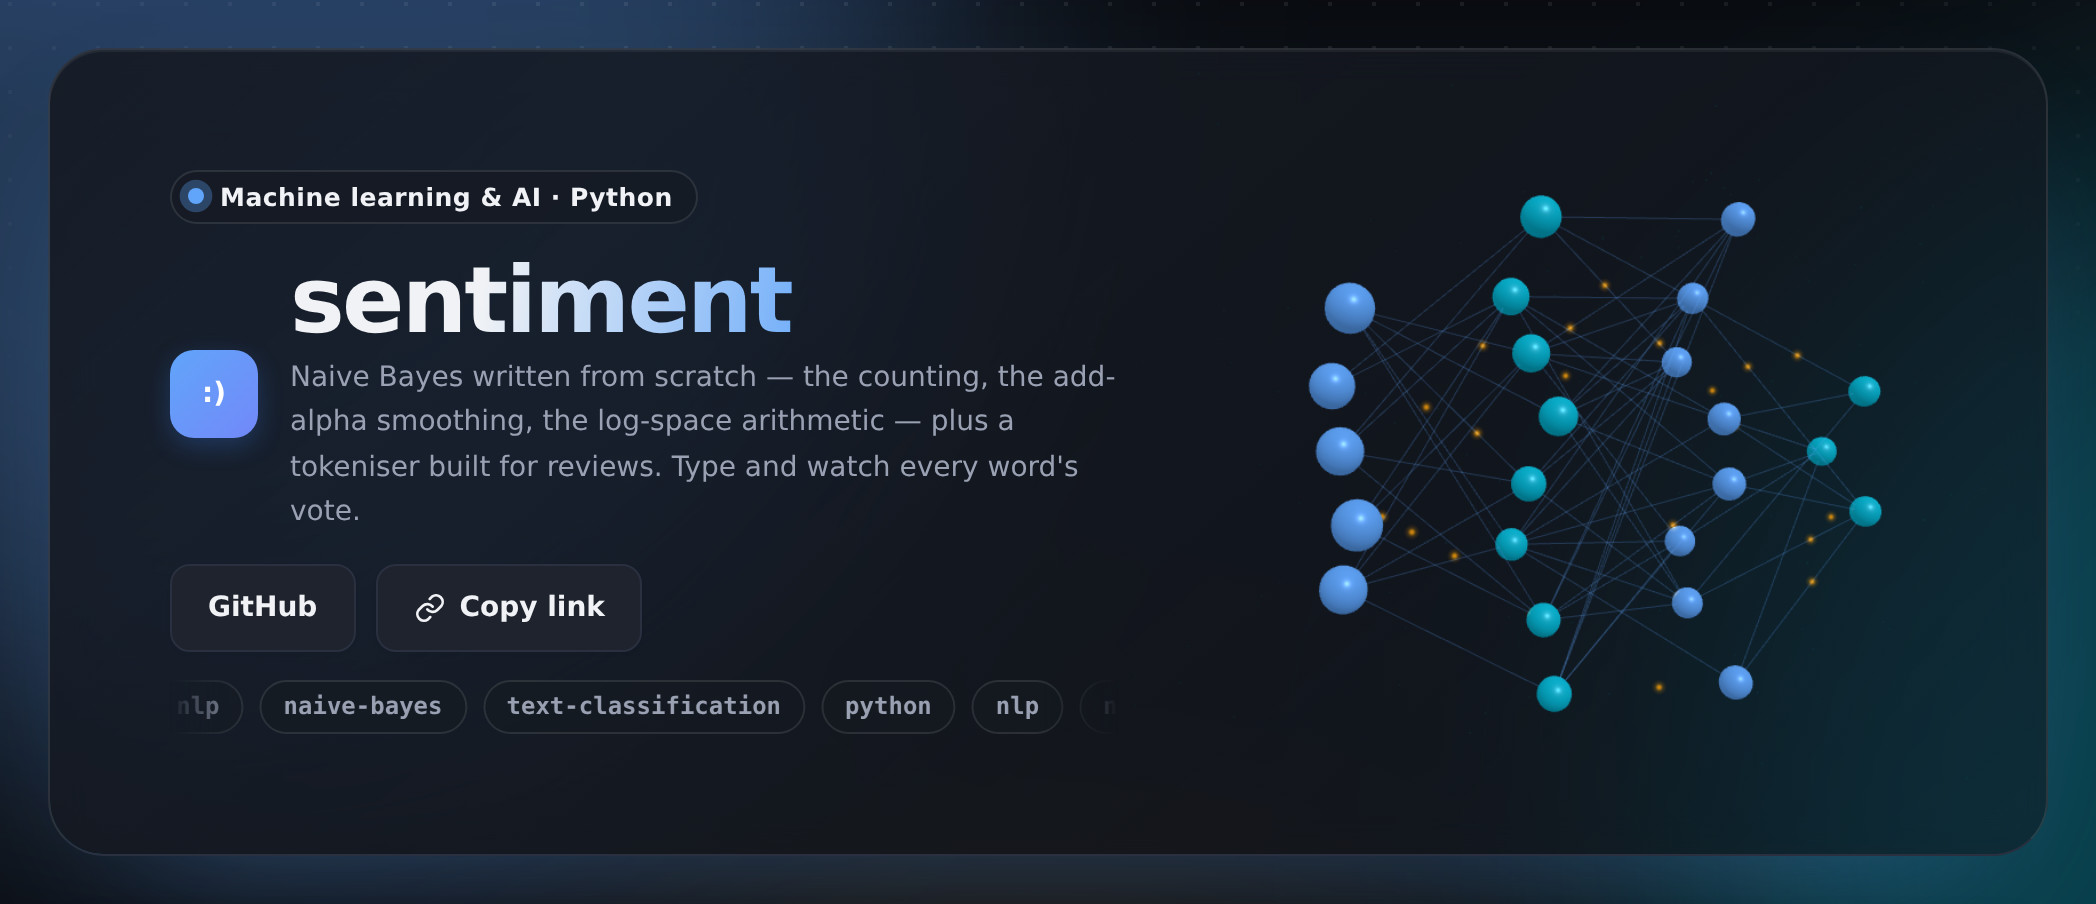
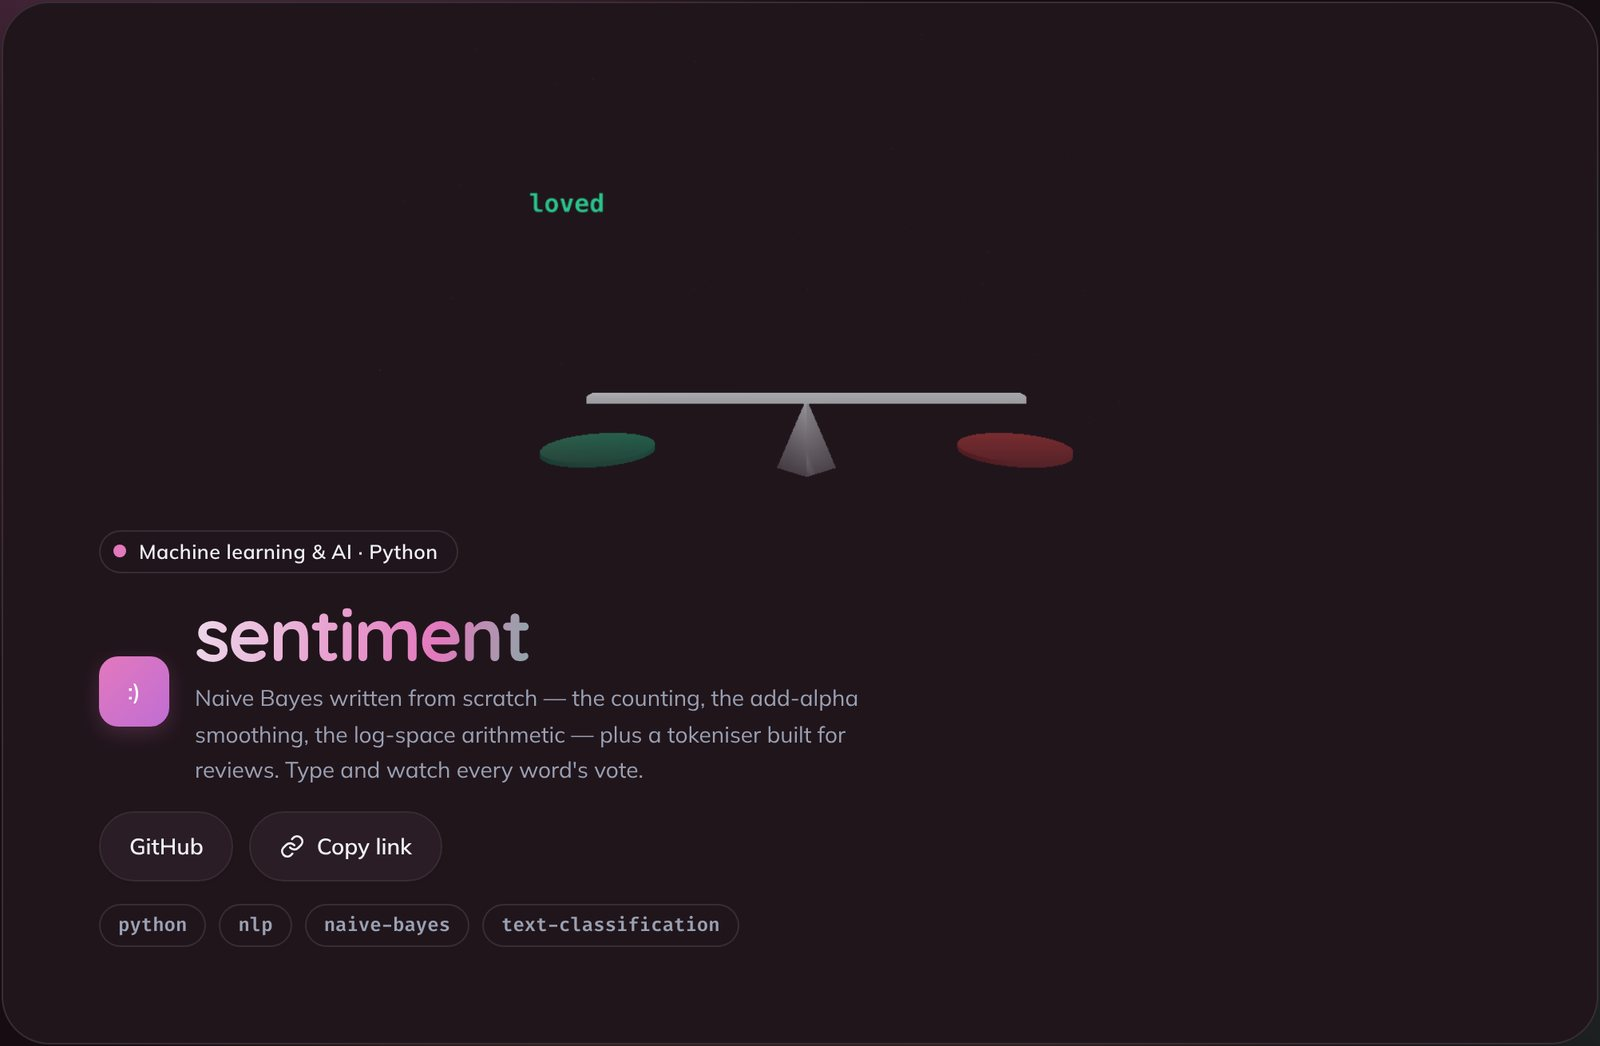
Cleaner page: solid cards and bars with nothing showing through, each tag shown once, no floating 3D window; search tags and fresh previews

diff --git a/docs/fx.css b/docs/fx.css
@@ -18,16 +18,11 @@ body { isolation: isolate; }
 .fx-cursor { position: fixed; left: 0; top: 0; z-index: -1; width: 560px; height: 560px; margin: -280px 0 0 -280px; border-radius: 50%; pointer-events: none; opacity: 0; transition: opacity .4s; background: radial-gradient(circle, color-mix(in srgb, var(--accent) 14%, transparent), transparent 62%); transform: translate3d(var(--x, -999px), var(--y, -999px), 0); }
 .fx-cursor.on { opacity: 1; }
 
-/* the hero: a glass panel with the 3D scene on the right (behind the text on phones) */
+/* the hero: one solid panel with the 3D scene on the right (behind the text on phones) */
 .fx-hero { --pad: clamp(24px, 5vw, 60px); position: relative; isolation: isolate; overflow: hidden; display: flex; flex-direction: column; justify-content: center; align-items: flex-start; gap: 14px;
   min-height: clamp(380px, 56vh, 580px); margin-top: 14px; padding: var(--pad); border: 1px solid var(--fx-line); border-radius: 28px;
-  background: linear-gradient(140deg, color-mix(in srgb, var(--surface, #fff) 92%, transparent), color-mix(in srgb, var(--surface, #fff) 55%, transparent));
-  -webkit-backdrop-filter: blur(10px) saturate(140%); backdrop-filter: blur(10px) saturate(140%); box-shadow: 0 30px 80px -40px color-mix(in srgb, var(--accent) 45%, transparent), 0 1px 0 rgb(255 255 255 / .06) inset; }
-.fx-hero::before { content: ""; position: absolute; inset: -1px; z-index: -1; border-radius: inherit; padding: 1px; pointer-events: none;
-  background: conic-gradient(from var(--fx-angle, 0deg), transparent 0 70%, var(--accent) 80%, var(--fx-2) 88%, transparent 96%);
-  -webkit-mask: linear-gradient(#000 0 0) content-box, linear-gradient(#000 0 0); -webkit-mask-composite: xor; mask-composite: exclude; animation: fx-beam 7s linear infinite; }
-@property --fx-angle { syntax: "<angle>"; inherits: false; initial-value: 0deg; }
-@keyframes fx-beam { to { --fx-angle: 360deg; } }
+  background: var(--surface, #fff);
+  box-shadow: 0 1px 2px rgb(0 0 0 / .06), 0 18px 40px -28px rgb(0 0 0 / .28); }
 .fx-hero > :not(.fx-scene) { position: relative; z-index: 1; max-width: min(600px, 54%); }
 .fx-hero.top > .brand, .fx-hero.top > .actions { max-width: min(600px, 54%); }
 .fx-scene { position: absolute !important; inset: 0 0 0 36%; z-index: 0 !important; pointer-events: none; opacity: 0; transition: opacity 1.4s var(--fx-ease);
@@ -41,10 +36,9 @@ body { isolation: isolate; }
 .fx-title { background: linear-gradient(100deg, var(--text) 0%, var(--text) 30%, var(--accent) 48%, var(--fx-2) 58%, var(--text) 76%) 0 0 / 250% 100%;
   -webkit-background-clip: text; background-clip: text; color: transparent !important; -webkit-text-fill-color: transparent; animation: fx-shine 9s ease-in-out infinite alternate; }
 @keyframes fx-shine { from { background-position: 100% 0; } to { background-position: 0% 0; } }
-.fx-tags { display: flex; gap: 8px; overflow: hidden; width: 100%; -webkit-mask-image: linear-gradient(90deg, transparent, #000 8%, #000 92%, transparent); mask-image: linear-gradient(90deg, transparent, #000 8%, #000 92%, transparent); }
-.fx-tags > div { display: flex; gap: 8px; flex: none; animation: fx-marquee 32s linear infinite; }
-.fx-tags span { flex: none; padding: 4px 11px; border-radius: 999px; font: 600 12px/1.4 var(--mono, ui-monospace, monospace); color: var(--muted); border: 1px solid var(--fx-line); background: color-mix(in srgb, var(--surface, #fff) 60%, transparent); }
-@keyframes fx-marquee { to { transform: translateX(calc(-50% - 4px)); } }
+.fx-tags { display: flex; width: 100%; margin: 0; padding: 0; list-style: none; }
+.fx-tags > div { display: flex; flex-wrap: wrap; gap: 8px; }
+.fx-tags span { flex: none; padding: 4px 11px; border-radius: 999px; font: 600 12px/1.4 var(--mono, ui-monospace, monospace); color: var(--muted); border: 1px solid var(--fx-line); background: var(--surface, #fff); }
 .fx-stats { display: flex; flex-wrap: wrap; gap: 10px 26px; margin-top: 4px; }
 .fx-stats div { display: grid; }
 .fx-stats b { font-size: clamp(22px, 3vw, 30px); font-weight: 800; letter-spacing: -.02em; font-variant-numeric: tabular-nums; }
@@ -52,7 +46,7 @@ body { isolation: isolate; }
 
 /* glass navigation with scroll spy */
 .fx-nav { position: sticky; top: 10px; z-index: 50; display: flex; align-items: center; gap: 6px; margin: 12px 0 0; padding: 6px; border-radius: 16px; border: 1px solid var(--fx-line);
-  background: color-mix(in srgb, var(--surface, #fff) 72%, transparent); -webkit-backdrop-filter: blur(14px) saturate(160%); backdrop-filter: blur(14px) saturate(160%); box-shadow: 0 12px 30px -18px rgb(0 0 0 / .35); overflow-x: auto; scrollbar-width: none; }
+  background: var(--surface, #fff); box-shadow: 0 12px 30px -18px rgb(0 0 0 / .35); overflow-x: auto; scrollbar-width: none; }
 .fx-nav::-webkit-scrollbar { display: none; }
 .fx-nav a { flex: none; padding: 7px 12px; border-radius: 10px; font: 600 13px/1.2 var(--font, system-ui); color: var(--muted); text-decoration: none; transition: color .2s, background .2s; white-space: nowrap; }
 .fx-nav a:hover, .fx-nav a[aria-current="true"] { color: var(--text); background: color-mix(in srgb, var(--accent) 12%, transparent); }
@@ -87,7 +81,7 @@ svg circle.fx-pop { transform-box: fill-box; transform-origin: center; animation
 
 /* the dock: theme, motion, share, back to top */
 .fx-dock { position: fixed; right: max(14px, env(safe-area-inset-right)); bottom: max(14px, env(safe-area-inset-bottom)); z-index: 900; display: flex; gap: 4px; padding: 5px; border-radius: 16px;
-  border: 1px solid var(--fx-line); background: color-mix(in srgb, var(--surface, #fff) 72%, transparent); -webkit-backdrop-filter: blur(14px) saturate(160%); backdrop-filter: blur(14px) saturate(160%);
+  border: 1px solid var(--fx-line); background: var(--surface, #fff);
   box-shadow: 0 16px 40px -18px rgb(0 0 0 / .45); }
 .fx-dock button { display: grid; place-items: center; width: 38px; height: 38px; padding: 0; border: 0; border-radius: 11px; background: transparent; color: var(--text); cursor: pointer; transition: background .2s, transform .25s var(--fx-ease), opacity .3s, width .3s var(--fx-ease); }
 .fx-dock button:hover { background: color-mix(in srgb, var(--accent) 14%, transparent); transform: translateY(-2px); }
@@ -115,7 +109,7 @@ svg circle.fx-pop { transform-box: fill-box; transform-origin: center; animation
   .fx-bg i { filter: blur(50px); }
 }
 @media (prefers-reduced-motion: reduce) {
-  .fx-bg i, .fx-hero::before, .fx-title, .fx-tags > div, .fx-shimmer::after, .fx-eyebrow::before { animation: none !important; }
+  .fx-bg i, .fx-title, .fx-shimmer::after, .fx-eyebrow::before { animation: none !important; }
   .fx-reveal { opacity: 1; transform: none; filter: none; transition: none; }
   svg .fx-draw { animation: none; stroke-dashoffset: 0; }
   svg circle.fx-pop { animation: none; }
@@ -173,21 +167,20 @@ button.fx-reset:hover:not(:disabled) svg { transform: rotate(-70deg); }
 :root[data-look] .btn { border-radius: var(--fx-control-radius); }
 
 /* cards and the hero panel, one family of styles per project */
-:root[data-card="outline"] .card { background: transparent; box-shadow: none; -webkit-backdrop-filter: none; backdrop-filter: none; border: 1px solid color-mix(in srgb, var(--text, #111) 20%, transparent); }
-:root[data-card="outline"] .fx-hero { background: transparent; box-shadow: none; -webkit-backdrop-filter: none; backdrop-filter: none; }
+:root[data-card="outline"] .card { background: var(--surface); box-shadow: none; -webkit-backdrop-filter: none; backdrop-filter: none; border: 1px solid color-mix(in srgb, var(--text, #111) 20%, transparent); }
+:root[data-card="outline"] .fx-hero { box-shadow: none; }
 :root[data-card="solid"] .card { background: var(--surface); -webkit-backdrop-filter: none; backdrop-filter: none; box-shadow: 0 1px 2px rgb(0 0 0 / .06); border: 1px solid var(--border, var(--line)); }
 :root[data-card="solid"] .fx-hero { background: var(--surface); -webkit-backdrop-filter: none; backdrop-filter: none; }
-:root[data-card="raised"] .card { border-color: transparent; box-shadow: 0 26px 50px -30px color-mix(in srgb, var(--accent) 60%, transparent), 0 2px 8px -3px rgb(0 0 0 / .14); }
-:root[data-card="raised"] .fx-hero { box-shadow: 0 40px 90px -45px color-mix(in srgb, var(--accent) 70%, transparent); }
-:root[data-card="brutal"] .card { background: var(--surface); border: 2px solid var(--text, #111); box-shadow: 6px 6px 0 var(--accent); -webkit-backdrop-filter: none; backdrop-filter: none; }
-:root[data-card="brutal"] .fx-hero { background: var(--surface); border: 2px solid var(--text, #111); box-shadow: 9px 9px 0 var(--accent); -webkit-backdrop-filter: none; backdrop-filter: none; }
-:root[data-card="brutal"] .fx-hero::before { display: none; }
+:root[data-card="raised"] .card { border-color: transparent; box-shadow: 0 1px 3px rgb(0 0 0 / .08), 0 14px 32px -22px rgb(0 0 0 / .32); }
+:root[data-card="raised"] .fx-hero { box-shadow: 0 1px 3px rgb(0 0 0 / .08), 0 26px 56px -34px rgb(0 0 0 / .4); }
+:root[data-card="brutal"] .card { background: var(--surface); border: 2px solid color-mix(in srgb, var(--text, #111) 85%, transparent); box-shadow: 0 1px 2px rgb(0 0 0 / .08); -webkit-backdrop-filter: none; backdrop-filter: none; }
+:root[data-card="brutal"] .fx-hero { background: var(--surface); border: 2px solid color-mix(in srgb, var(--text, #111) 85%, transparent); box-shadow: 0 1px 2px rgb(0 0 0 / .08); -webkit-backdrop-filter: none; backdrop-filter: none; }
 :root[data-card="brutal"] .btn { border-width: 2px; }
 :root[data-card="tint"] .card { background: color-mix(in srgb, var(--accent) 7%, var(--surface)); border-color: color-mix(in srgb, var(--accent) 24%, transparent); }
 :root[data-card="tint"] .fx-hero { background: linear-gradient(140deg, color-mix(in srgb, var(--accent) 11%, var(--surface)), color-mix(in srgb, var(--fx-2) 9%, var(--surface))); }
 :root[data-card="rail"] .card { border-left: 4px solid var(--accent); }
 :root[data-card="rail"] .fx-hero { border-left: 6px solid var(--accent); }
-:root[data-card="glass"] .card { background: color-mix(in srgb, var(--surface) 58%, transparent); -webkit-backdrop-filter: blur(20px) saturate(170%); backdrop-filter: blur(20px) saturate(170%); border: 1px solid color-mix(in srgb, #fff 22%, transparent); box-shadow: 0 1px 0 rgb(255 255 255 / .12) inset, 0 18px 40px -30px rgb(0 0 0 / .4); }
+:root[data-card="glass"] .card { background: color-mix(in srgb, var(--surface) 94%, transparent); -webkit-backdrop-filter: blur(14px); backdrop-filter: blur(14px); border: 1px solid color-mix(in srgb, var(--text, #111) 12%, transparent); box-shadow: 0 1px 2px rgb(0 0 0 / .06), 0 16px 36px -28px rgb(0 0 0 / .35); }
 :root[data-card="soft"] .card { border-color: transparent; background: color-mix(in srgb, var(--accent) 4%, var(--surface)); box-shadow: inset 0 0 0 1px color-mix(in srgb, var(--accent) 13%, transparent), 0 14px 32px -24px rgb(0 0 0 / .35); }
 :root[data-card="soft"] .fx-hero { border-color: transparent; }
 
@@ -205,7 +198,7 @@ button.fx-reset:hover:not(:disabled) svg { transform: rotate(-70deg); }
   html[data-hero="center"] :is(.fx-hero, header.top.fx-hero) { align-items: center; text-align: center; padding-bottom: calc(var(--pad) + 270px); justify-content: flex-start; }
   html[data-hero="center"] .fx-hero > :not(.fx-scene), html[data-hero="center"] header.top.fx-hero > :is(.brand, .actions), html[data-hero="center"] header.top.fx-hero .fx-tags { max-width: min(760px, 100%); }
   html[data-hero="center"] header.top.fx-hero > .brand { flex-direction: column; text-align: center; }
-  html[data-hero="center"] :is(.fx-hero .links, header.top.fx-hero > .actions) { justify-content: center; }
+  html[data-hero="center"] :is(.fx-hero .links, header.top.fx-hero > .actions, .fx-tags, .fx-tags > div) { justify-content: center; }
   html[data-hero="center"] .fx-hero .fx-scene, html[data-hero="center"][data-fx-compact] .fx-hero .fx-scene { inset: auto 0 0 0; height: 310px; -webkit-mask-image: linear-gradient(0deg, #000 74%, transparent); mask-image: linear-gradient(0deg, #000 74%, transparent); }
 }
 
@@ -221,7 +214,7 @@ button.fx-reset:hover:not(:disabled) svg { transform: rotate(-70deg); }
 :root[data-motif="plain"] .fx-bg i { opacity: .12; }
 /* the scene follows the reader in a corner window once the hero scrolls away (wide screens only) */
 .fx-pip { position: fixed; left: 18px; bottom: 18px; z-index: 60; width: 200px; height: 130px; border-radius: 16px; overflow: hidden; cursor: pointer; isolation: isolate;
-  background: color-mix(in srgb, var(--surface, #fff) 70%, transparent); -webkit-backdrop-filter: blur(16px) saturate(160%); backdrop-filter: blur(16px) saturate(160%);
+  background: var(--surface, #fff);
   border: 1px solid color-mix(in srgb, var(--accent) 32%, transparent); box-shadow: 0 26px 50px -26px color-mix(in srgb, var(--accent) 60%, transparent), 0 2px 10px rgb(0 0 0 / .12);
   opacity: 0; transform: translateY(18px) scale(.94); transition: opacity .45s var(--fx-ease, ease), transform .45s var(--fx-ease, ease); }
 .fx-pip.on { opacity: 1; transform: none; }
@@ -238,7 +231,7 @@ body:has(input:focus, textarea:focus, select:focus, [contenteditable]:focus) .fx
 :root[data-look] .fx-reveal { transform: perspective(1100px) translateY(30px) rotateX(9deg) scale(.985); transform-origin: 50% 0; }
 :root[data-look] .fx-reveal.fx-in { transform: none; }
 :root[data-look] .card:focus-within { border-color: color-mix(in srgb, var(--accent) 55%, transparent); box-shadow: 0 0 0 1px color-mix(in srgb, var(--accent) 45%, transparent), 0 22px 44px -26px color-mix(in srgb, var(--accent) 65%, transparent); transition: box-shadow .35s, border-color .35s; }
-:root[data-card="brutal"] .card:focus-within { box-shadow: 8px 8px 0 var(--accent); }
+:root[data-card="brutal"] .card:focus-within { box-shadow: 0 0 0 3px color-mix(in srgb, var(--accent) 40%, transparent); }
 /* the page pattern drifts slowly */
 :root[data-look]:not([data-motif="plain"]):not([data-motif="noise"]) .fx-bg b { animation: fx-pan 90s linear infinite; }
 :root[data-motif="grid"] .fx-bg b { --fx-pan: 46px 46px; }

diff --git a/docs/index.html b/docs/index.html
@@ -4,11 +4,6 @@
   <meta charset="utf-8">
   <meta name="viewport" content="width=device-width, initial-scale=1">
   <title>sentiment — Interactive Naive Bayes Sentiment Demo</title>
-  <meta property="og:type" content="website">
-  <meta property="og:title" content="sentiment — Interactive Naive Bayes Sentiment Demo">
-  <meta property="og:description" content="Type a review and watch a from-scratch Naive Bayes classifier break down every word's contribution to the positive/negative decision.">
-  <meta property="og:url" content="https://umer-78.github.io/sentiment-analyzer/">
-  <meta name="twitter:card" content="summary">
   <meta name="description" content="Type a review and watch a from-scratch Naive Bayes classifier break down every word's contribution to the positive/negative decision.">
   <meta name="theme-color" content="#b84b94" media="(prefers-color-scheme: light)">
   <meta name="theme-color" content="#160c12" media="(prefers-color-scheme: dark)">
@@ -372,6 +367,8 @@ html.mk-pre header.top, html.mk-pre main section, html.mk-pre section.card, html
 :root[data-look][data-theme="dark"] { --accent: #e378bd; --accent-hover: #f290ce; --accent-soft: rgb(227 120 189 / 0.14); --accent-glow: rgb(227 120 189 / 0.2); --on-accent: #1b0c15; --fx-2: #48cc96; --fx-3: #fea575; --bg: #160c12; --bg-elevated: #1d1219; --surface: #21151c; --surface-2: #2a1d25; --surface-3: #34272f; --border: #382c33; --border-strong: #4a3e45; --line: #382c33; }</style>
 <link rel="modulepreload" href="https://cdn.jsdelivr.net/npm/three@0.186.1/build/three.module.min.js" data-fx>
 <link rel="modulepreload" href="fx3d.js" data-fx>
+<link rel="canonical" href="https://umer-78.github.io/sentiment-analyzer/">
+<script type="application/ld+json">{"@context": "https://schema.org", "@type": "WebApplication", "name": "sentiment — Interactive Naive Bayes Sentiment Demo", "url": "https://umer-78.github.io/sentiment-analyzer/", "applicationCategory": "DeveloperApplication", "operatingSystem": "Any (runs in a web browser)", "isAccessibleForFree": true, "author": {"@type": "Person", "name": "Umer Hashmi", "url": "https://umer-78.github.io/"}, "description": "Type a review and watch a from-scratch Naive Bayes classifier break down every word's contribution to the positive/negative decision.", "image": "https://umer-78.github.io/sentiment-analyzer/og.jpg", "sameAs": "https://github.com/umer-78/sentiment-analyzer"}</script>
 </head>
 <body>
   <a class="skip-link" href="#main">Skip to content</a>
@@ -394,7 +391,7 @@ html.mk-pre header.top, html.mk-pre main section, html.mk-pre section.card, html
       <div class="actions">
         <a class="btn" href="https://github.com/umer-78/sentiment-analyzer">GitHub</a>
       </div>
-      <div class="fx-tags" aria-hidden="true"><div><span>python</span><span>nlp</span><span>naive-bayes</span><span>text-classification</span><span>python</span><span>nlp</span><span>naive-bayes</span><span>text-classification</span></div></div>
+      <div class="fx-tags"><div><span>python</span><span>nlp</span><span>naive-bayes</span><span>text-classification</span></div></div>
     </header>
 
     <section class="card" aria-labelledby="classify-h">

diff --git a/docs/fx3d.js b/docs/fx3d.js
@@ -324,30 +324,7 @@ export function mount(host, kind = 'ml') {
   }
   const wake = () => { if (!stopped && (visible || pip) && !raf) { last = performance.now(); raf = requestAnimationFrame(frame); } };
   addEventListener('fx:motion', wake);
-  // once the hero scrolls away on a wide screen, the scene follows the reader in a small window at the corner
-  const roomy = matchMedia('(min-width: 1360px) and (pointer: fine)');
-  let dismissed = false;
-  try { dismissed = sessionStorage.getItem('fx:pip') === 'off'; } catch { /* storage blocked */ }
-  const dock = (on) => {
-    if (on === pip || stopped) return;
-    if (on && !shell) {
-      shell = document.createElement('div');
-      shell.className = 'fx-pip';
-      shell.title = 'Back to the top';
-      shell.innerHTML = '<button type="button" aria-label="Close the 3D window">&times;</button>';
-      shell.addEventListener('click', (ev) => {
-        if (ev.target.closest('button')) { dismissed = true; try { sessionStorage.setItem('fx:pip', 'off'); } catch { /* storage blocked */ } dock(false); return; }
-        host.scrollIntoView({ behavior: reduce ? 'auto' : 'smooth', block: 'start' });
-      });
-      document.body.append(shell);
-    }
-    pip = on;
-    if (on) { shell.prepend(box); requestAnimationFrame(() => shell.classList.add('on')); }
-    else { shell?.classList.remove('on'); host.prepend(box); }
-    fit();
-    wake();
-  };
-  new IntersectionObserver(([e]) => { visible = e.isIntersecting; dock(!visible && roomy.matches && !dismissed); wake(); }).observe(host);
+  new IntersectionObserver(([e]) => { visible = e.isIntersecting; wake(); }).observe(host);
   document.addEventListener('visibilitychange', () => { if (!document.hidden) wake(); });
   raf = requestAnimationFrame((n) => { frame(n); box.classList.add('on'); });
   return {
